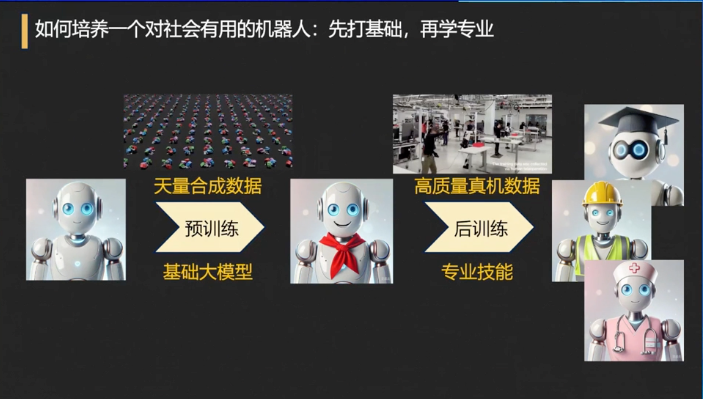
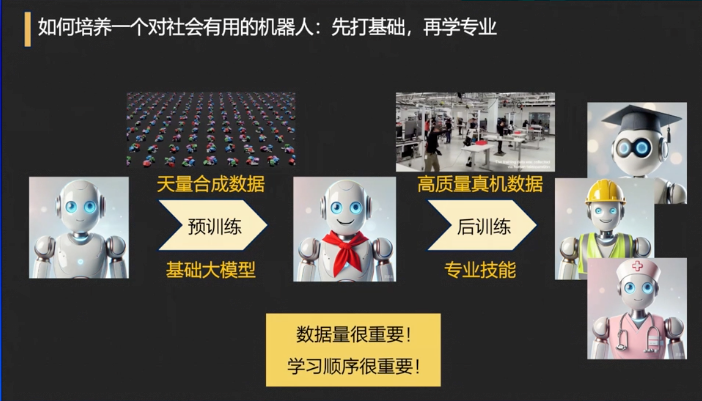
add

Changed region(s): [[0.0, 0.0, 1.0, 1.0], [0.359, 0.782, 0.6282, 0.9624]]

diff --git a/reinforcement-learning/knowledge.md b/reinforcement-learning/knowledge.md
@@ -38,7 +38,8 @@ CCF会议：TF73 具身智能机器人的大模型与应用研发
             如果有10亿条数据会怎样？光照、平面位置、高度、背景、类别泛化的能力非常重要！不会overfitting到某一场景。
                Scaling Law 真需要这么多数据？实验结果确实是这样，1B数据才够
             GraspVLA 基础大模型举一反三，后训练事半功倍，就100条数据
-        机器人实战，下图2
+        机器人实战路线，见下图2
+    走向真实世界，双臂操作，银河太空舱
 ```
 ![Alt text](image.png)
 ![Alt text](image-1.png)
